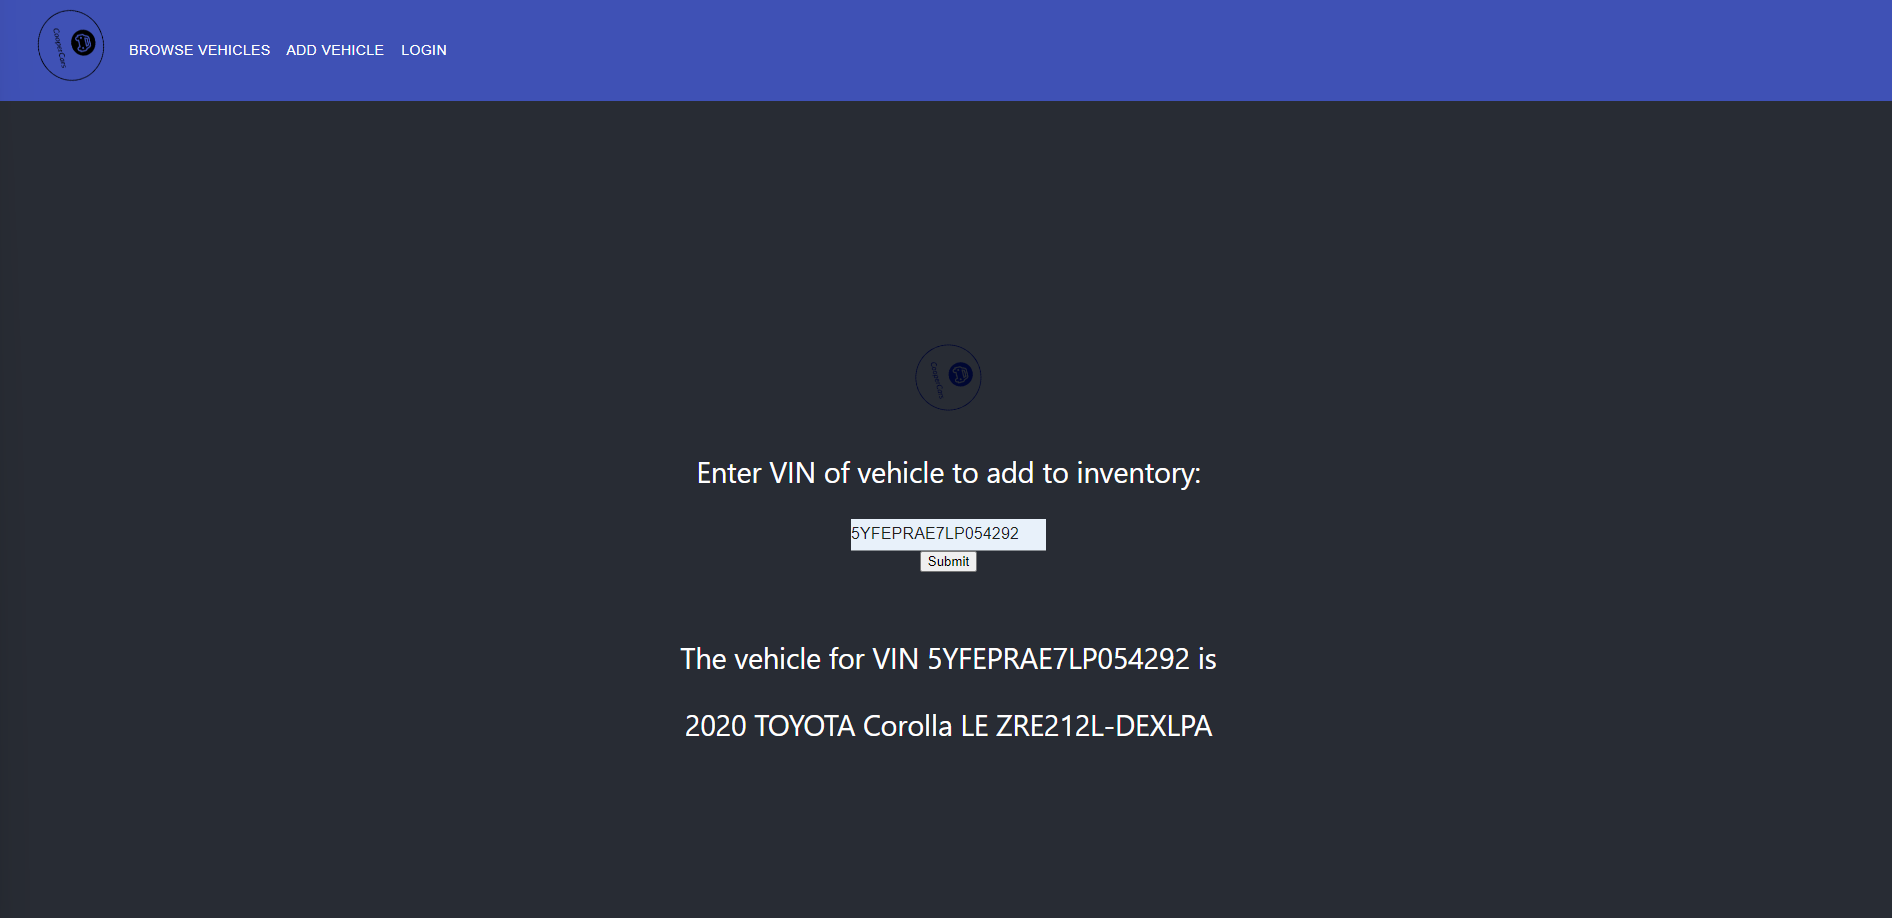
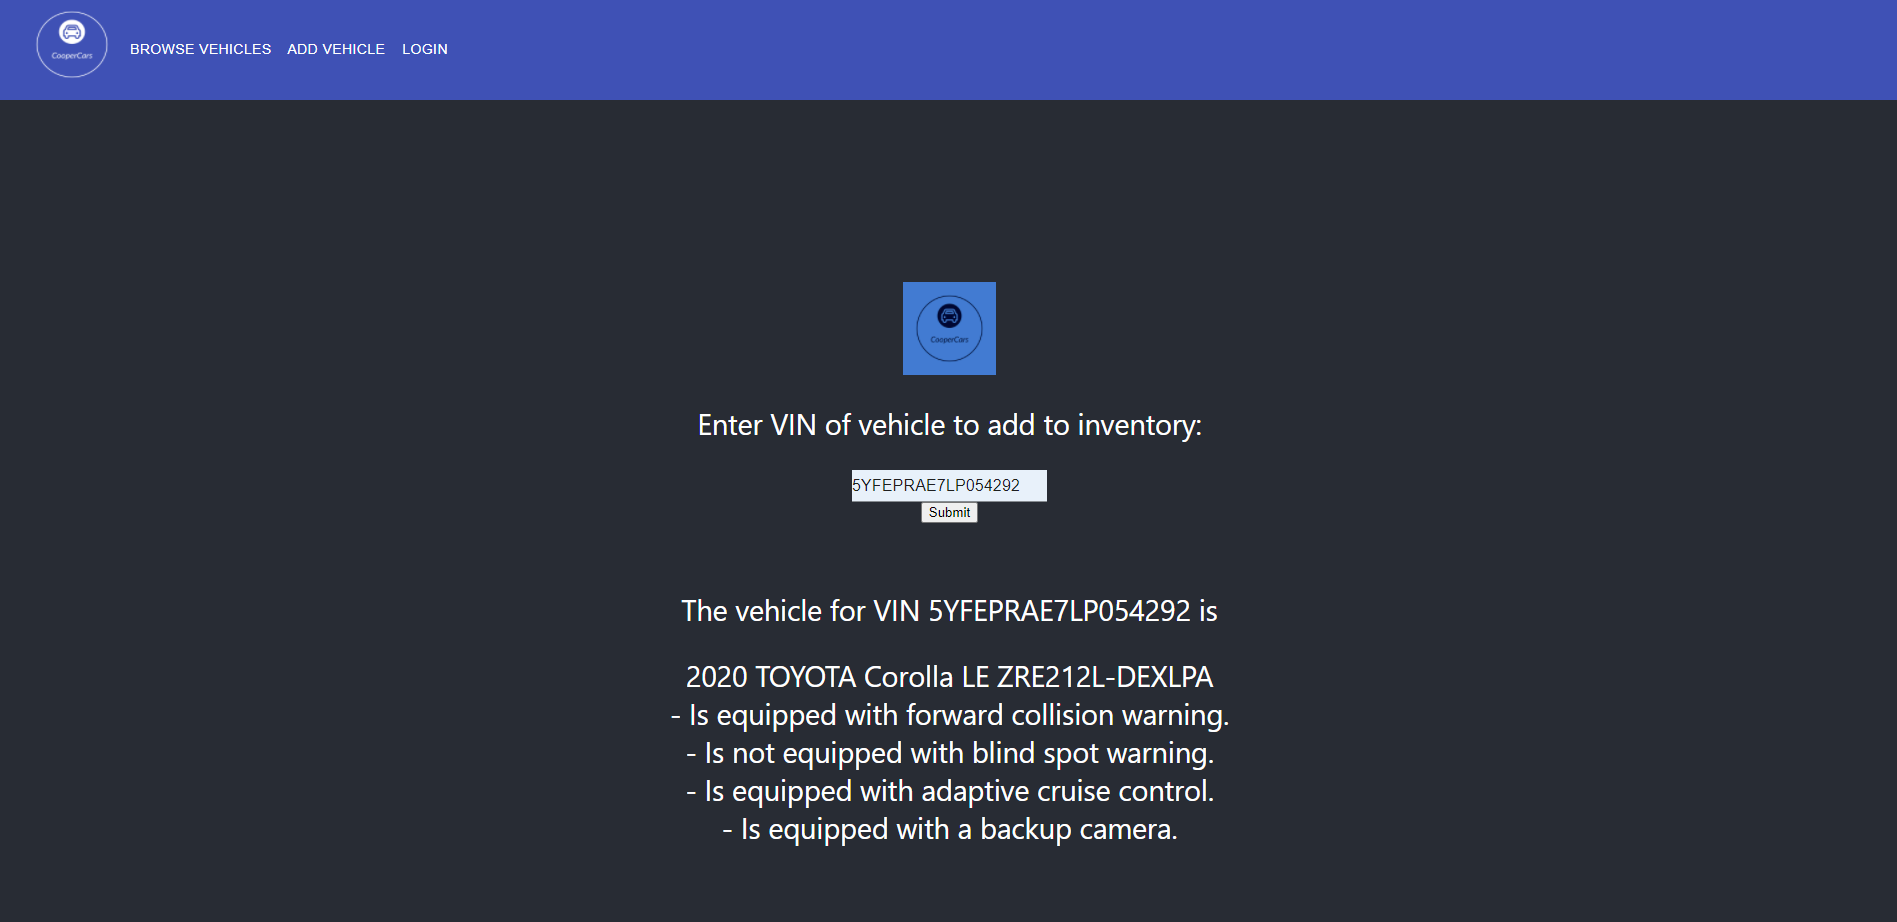
minor updates

Changed region(s): [[0.343, 0.7015, 0.6549, 0.915], [0.343, 0.305, 0.6549, 0.671], [0.0, 0.0, 0.2495, 0.0915]]

diff --git a/coopercars-app/src/App.js b/coopercars-app/src/App.js
@@ -1,6 +1,6 @@
 import React, { useState } from 'react';
 import useInterval from './useInterval';
-import coopercars1_logo from './CooperCars-logos_transparent.png';
+import coopercars1_logo from './CooperCars-logos.jpeg';
 import coopercars2_logo from './CooperCars-logos_black.png';
 import './App.css';
 import NavBar from './components/NavBar'
@@ -17,6 +17,10 @@ function App() {
 
   const [currentVIN, setCurrentVIN] = useState('-');
   const [currentVehicleInfo, setCurrentVehicleInfo] = useState('-');
+  const [currentVehicleFeatures1, setCurrentVehicleFeatures1] = useState('-');
+  const [currentVehicleFeatures2, setCurrentVehicleFeatures2] = useState('-');
+  const [currentVehicleFeatures3, setCurrentVehicleFeatures3] = useState('-');
+  const [currentVehicleFeatures4, setCurrentVehicleFeatures4] = useState('-');
   //const [data,setData] = useState(null);
   //const [print,setPrint] = useState(false);
   //const vinDelay = 30000; // in milliseconds
@@ -28,12 +32,55 @@ function App() {
     // var vin = vins[Math.floor(Math.random() * vins.length)];
     setCurrentVIN(vin);
     setCurrentVehicleInfo(vin);
+    setCurrentVehicleFeatures1(vin);
+    setCurrentVehicleFeatures2(vin);
+    setCurrentVehicleFeatures3(vin);
+    setCurrentVehicleFeatures4(vin);
     var vehicleApiUrl = apiUrlPrefix.concat("/api/vehicle/",vin);
       fetch(vehicleApiUrl)
       .then(response => response.json())
       .then(data => {
 
+        // the following is an example for presentation purposes... we ultimately want to present this in a better way than just sentences
         setCurrentVehicleInfo(data.year + " " + data.make + " " + data.model + " " + data.trim + " " + data.series);
+        var hasFCW = "";
+        var hasBSW = "";
+        var hasACC = "";
+        var hasBackup = "";
+
+        if (data.forwColliWarn == "Standard"){
+          hasFCW = "- Is equipped "
+        }
+        else{
+          hasFCW = "- Is not equipped "
+        }
+
+        if (data.blindSpotWarn == "Standard"){
+          hasBSW = "- Is equipped "
+        }
+        else{
+          hasBSW = "- Is not equipped "
+        }
+
+        if (data.adaptiveCruiseControl == "Standard"){
+          hasACC = "- Is equipped "
+        }
+        else{
+          hasACC = "- Is not equipped "
+        }
+
+        if (data.backupCam == "Standard"){
+          hasBackup = "- Is equipped "
+        }
+        else{
+          hasBackup = "- Is not equipped "
+        }
+
+
+        setCurrentVehicleFeatures1(hasFCW + "with forward collision warning. ");
+        setCurrentVehicleFeatures2(hasBSW + "with blind spot warning. ");
+        setCurrentVehicleFeatures3(hasACC + "with adaptive cruise control. ");
+        setCurrentVehicleFeatures4(hasBackup + "with a backup camera. ");
         console.log(data);
       })
       .catch(err => {
@@ -84,9 +131,12 @@ function App() {
         <br></br>
         {/*<button className="button" onClick={App.buttonClicked}>Click to Refresh</button>*/}
 
-        <p>The vehicle for VIN {vin} is</p>
-        {currentVehicleInfo}
-        <p></p>
+        <p>The vehicle for VIN {vin} is </p>
+        {currentVehicleInfo}<br></br>
+        {currentVehicleFeatures1}<br></br>
+        {currentVehicleFeatures2}<br></br>
+        {currentVehicleFeatures3}<br></br>
+        {currentVehicleFeatures4}<br></br>
       </header>
     </div>
   );

diff --git a/coopercars-app/src/components/NavBar.js b/coopercars-app/src/components/NavBar.js
@@ -4,7 +4,7 @@ import Toolbar from '@material-ui/core/Toolbar'
 import Typography from '@material-ui/core/Typography'
 import Button from '@material-ui/core/Button';
 import {Container, Tooltip} from "@material-ui/core";
-import logo from "../CooperCars-logos_black.png";
+import logo from "../CooperCars-logos_white.png";
 
 const pages = ['Browse Vehicles', 'Add Vehicles'];
 const settings = ['Profile', 'Account', 'Dashboard', 'Logout'];
@@ -21,7 +21,7 @@ const NavBar = () => {
                         component="div"
                         sx={{ mr: 2, display: { xs: 'none', md: 'flex' } }}
                     >
-                        <img src={logo} className="App-logo" alt="logo" sx={{ p: 0 }} width = "100" height = "200"/>
+                        <img src={logo} className="App-logo" alt="logo" sx={{ p: 0 }} width = "100" height = "100"/>
                     </Typography>
 
                     {/*<div>*/}

diff --git a/coopercars-app/src/App.css b/coopercars-app/src/App.css
@@ -12,11 +12,11 @@
   pointer-events: none;
 }
 
-@media (prefers-reduced-motion: no-preference) {
-  .App-logo {
-    animation: App-logo-spin infinite 20s linear;
-  }
-}
+/*@media (prefers-reduced-motion: no-preference) {*/
+/*  .App-logo {*/
+/*    animation: App-logo-spin infinite 20s linear;*/
+/*  }*/
+/*}*/
 
 .App-header {
   background-color: #282c34;
@@ -80,11 +80,11 @@ a.button:hover{
     content: '\201D';
 }
 
-@keyframes App-logo-spin {
-  from {
-    transform: rotate(0deg);
-  }
-  to {
-    transform: rotate(360deg);
-  }
-}
+/*@keyframes App-logo-spin {*/
+/*  from {*/
+/*    transform: rotate(0deg);*/
+/*  }*/
+/*  to {*/
+/*    transform: rotate(360deg);*/
+/*  }*/
+/*}*/

diff --git a/README.md b/README.md
@@ -1,7 +1,6 @@
 # CooperCars: US-8
 ### Connects a custom-made VehicleAPI to the front-end. 
 #### Merged with dguo-us-12 to add title navigation bar and re-implement text box.
-#### Done: present the vehicle based on what's passed in the text box.
-#### Done: re-factor and rename everything from borsa to coopercars.
+#### Done: present the vehicle and some features based on what's passed in the text box.
 
 ![image1](us-8.png)
